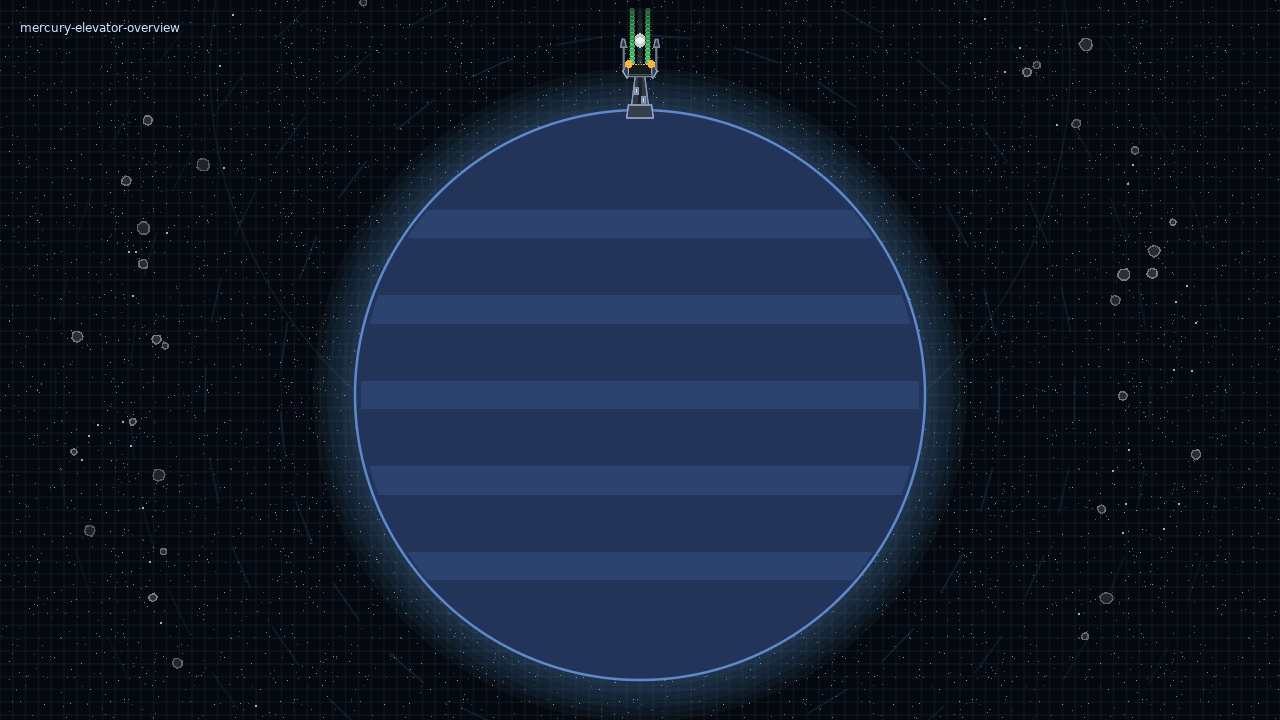
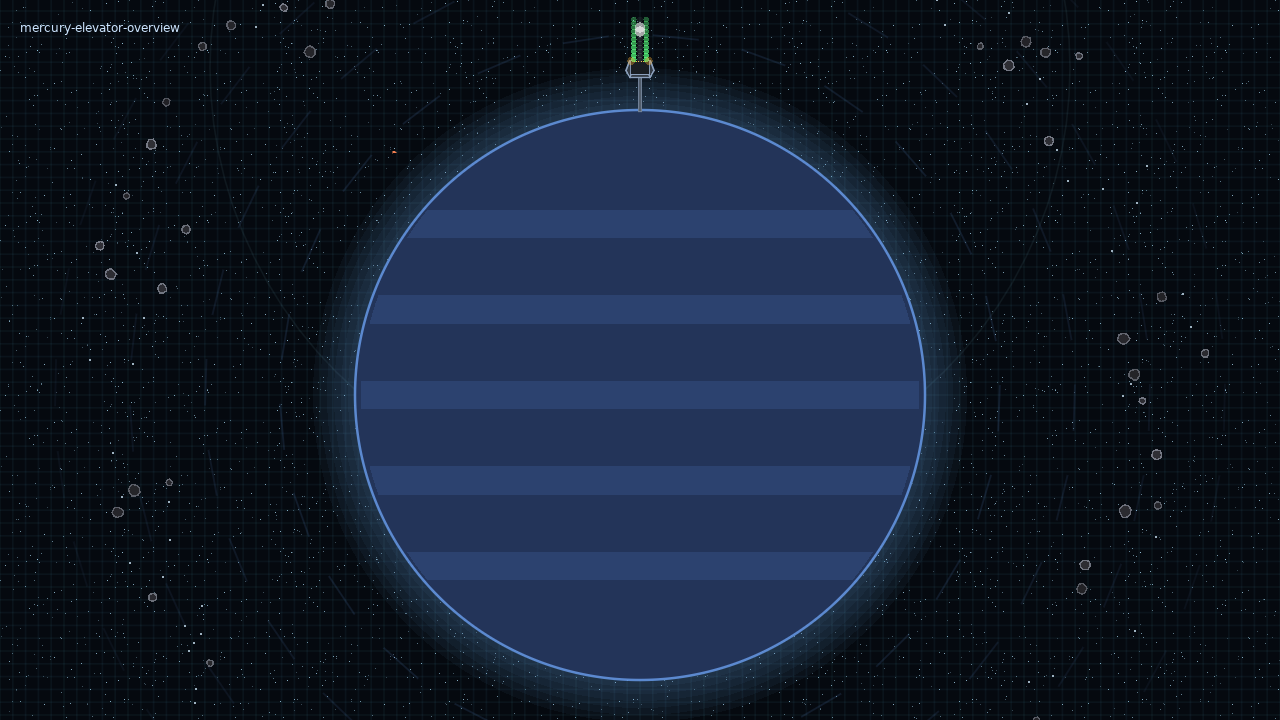
Simplify infrastructure art and animate rings in highway views

diff --git a/README.md b/README.md
@@ -57,16 +57,15 @@ file) onto `love.exe`.
 ## Surface elevators and the Heaven-Ladder
 
 Mars's Heaven-Ladder has a 260-pixel-thick moving belt rotating against the
-planetary current, with eight broad passage gaps. Two fixed, exposed-truss
-surface elevators bridge over the belt to large outward-facing terminals.
+planetary current, with eight broad passage gaps. Two fixed
+surface elevators bridge over the belt to compact outward-facing terminals.
 Both terminals are one station: storage, market, hangar and services are shared.
 Save/load, respawn and hangar swaps preserve the terminal you used. The HUD
 marks the eastern and western approaches separately.
 
-Mercury has a standalone elevator from a different manufacturer: an enclosed,
-tapered spine, swept terminal and forked counterweight, without an orbital ring.
-The two designs use relative component shading/tint with a neutral base colour.
-Cargo cars move along their rails. The stationary layouts use ordinary station
+Mercury has a standalone elevator from a different manufacturer: a narrow tether
+and a small tapered terminal, without an orbital ring. Both designs use the
+original world geometry's plain fills and thin outlines. The stationary layouts use ordinary station
 parts and can be opened in F2 as `heaven_ladder` and `mercury_elevator` after
 visiting their maps; the moving Martian belt is bespoke geometry.
 

diff --git a/docs/station-art/README.md b/docs/station-art/README.md
@@ -5,7 +5,7 @@ actual physics rotation; these images show one moment in its motion.
 
 ## Mars: Heaven-Ladder
 
-Two fixed, exposed-truss elevators bridge over the thick counter-rotating belt.
+Two plain fixed elevators bridge over the uniformly coloured counter-rotating belt.
 Both outward-facing terminals share a single station, hangar, market and storage.
 
 ![Mars overview](mars-ring-overview.png)
@@ -14,8 +14,8 @@ Both outward-facing terminals share a single station, hangar, market and storage
 
 ## Mercury: standalone elevator
 
-A separate manufacturer's enclosed spine, swept terminal and forked counterweight.
-The counterweight spars flank the open dock approach; there is no orbital ring.
+A separate manufacturer's narrow tether and compact tapered terminal.
+There is no orbital ring.
 
 ![Mercury overview](mercury-elevator-overview.png)
 
